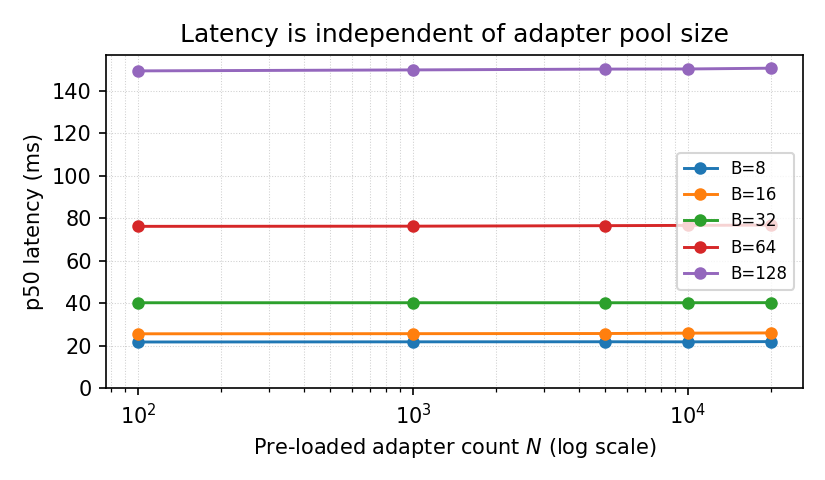
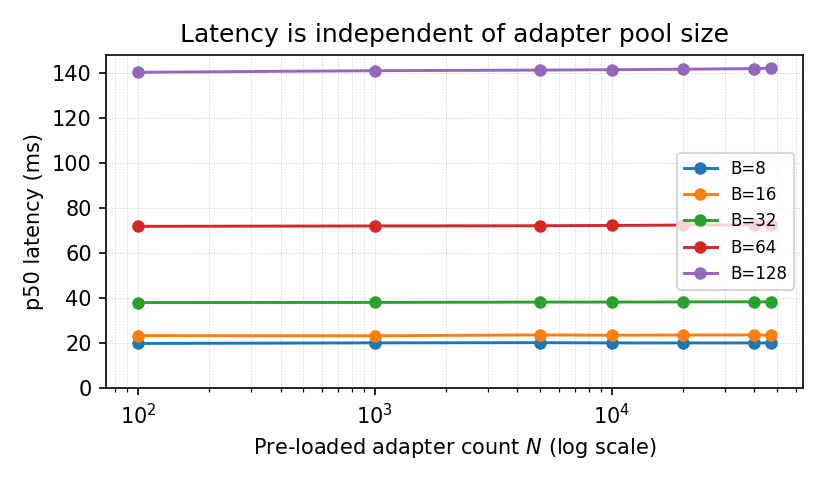
updated text with new benchmarks

diff --git a/paper/main.tex b/paper/main.tex
@@ -79,10 +79,10 @@ then fusing them additively---enabling heterogeneous adapters and per-tenant
 logistic-regression heads to be batched via \texttt{torch.bmm} with
 pre-allocated GPU buffers, requiring no custom CUDA kernels.
 On a single NVIDIA A100-80GB GPU with \texttt{BAAI/bge-m3} as the base
-model, \sysname{} serves \textbf{20{,}000 pre-loaded LoRA adapters at 800
-samples/sec} with 42~ms p99 latency at batch size 32, and scales from 100 to
-20{,}000 adapters with statistically unchanged latency---empirically confirming
-$\mathcal{O}(1)$ scaling in adapter count.
+model, \sysname{} serves \textbf{47{,}000 pre-loaded LoRA adapters at 810
+samples/sec} with 41~ms p99 latency at batch size 32, and p50 latency stays
+statistically unchanged from 100 to 47{,}000 adapters---the full per-GPU
+capacity---empirically confirming $\mathcal{O}(1)$ scaling in adapter count.
 Against the HuggingFace PEFT swap baseline on the same hardware,
 \sysname{} delivers a \textbf{37--528$\times$ throughput improvement} under
 adapter-grouped (batch-by-adapter) batching, growing with both batch size
@@ -134,6 +134,10 @@ many distinct adapters it references. Per-tenant task heads
 (variable-size classifiers, regressors, retrieval re-rankers) are
 batched analogously via zero-padded BMM.
 
+Our single-GPU evaluation characterizes the serving primitive; a
+minimal reference deployment for stateless scale-out is in
+Appendix~\ref{sec:deployment}.
+
 \paragraph{Contributions.}
 \begin{itemize}
   \item We identify and formalize the \emph{encoder multi-tenant LoRA serving}
@@ -145,10 +149,10 @@ batched analogously via zero-padded BMM.
   without custom CUDA kernels, in standard PyTorch (\S\ref{sec:system}).
 
   \item We empirically demonstrate that adapter count does not drive
-  inference latency: scaling from 100 to 20{,}000 adapters at batch
+  inference latency: scaling from 100 to 47{,}000 adapters at batch
   size 32 on a single A100-80GB leaves p50 latency flat
-  (40.2$\to$40.3~ms) and p99 bounded ($\le$45.7~ms), with serving
-  throughput saturating at $\approx$800~samples/sec by batch size 64
+  (38.0$\to$38.3~ms) and p99 bounded ($\le$50.8~ms), with serving
+  throughput saturating at $\approx$840~samples/sec by batch size 64
   (\S\ref{sec:experiments}).
 
   \item We benchmark \sysname{} against a HuggingFace PEFT swap baseline
@@ -161,7 +165,9 @@ batched analogously via zero-padded BMM.
 
   \item By staying in standard PyTorch, \sysname{} removes the custom-CUDA
   build step that is the dominant deployment friction on managed GPU
-  platforms (Databricks, SageMaker, Modal).
+  platforms (Databricks, SageMaker, Modal), letting the same serving
+  primitive drop into a standard cluster scale-out
+  (Appendix~\ref{sec:deployment}).
 \end{itemize}
 
 % =============================================================================
@@ -396,8 +402,8 @@ it depends only on batch size $\mathcal{B}$, sequence length $S$, and model dept
 The adapter count affects only CPU-side batch assembly time, which is
 $\mathcal{O}(\mathcal{B} \cdot L \cdot |\mathcal{M}|)$ where $|\mathcal{M}|$ is the
 number of target modules.
-Empirically, increasing $N$ from 100 to 20{,}000 at batch size 32 leaves p50
-latency effectively unchanged (40.2 vs.\ 40.3~ms;
+Empirically, increasing $N$ from 100 to 47{,}000 at batch size 32 leaves p50
+latency effectively unchanged (38.0 vs.\ 38.3~ms;
 \S\ref{sec:results_latency}).
 
 % =============================================================================
@@ -434,7 +440,7 @@ using 50 warm-up iterations followed by 200 measured iterations.
 GPU-side work is timed with reusable \texttt{torch.cuda.Event} pairs and
 synchronized once per iteration; CPU-side assembly is timed with
 \texttt{time.perf\_counter} between identical synchronization points.
-We sweep adapter count $N \in \{100,\,1{,}000,\,5{,}000,\,10{,}000,\,20{,}000\}$,
+We sweep adapter count $N \in \{100,\,1{,}000,\,5{,}000,\,10{,}000,\,20{,}000,\,40{,}000,\,47{,}000\}$,
 batch size $\mathcal{B} \in \{8,\,16,\,32,\,64,\,128\}$, and rank
 $r \in \{4,\,8,\,16,\,32\}$.
 Each configuration samples mixed-tenant batches uniformly at random from the
@@ -472,6 +478,8 @@ operating point.
 \begin{table}[t]
 \centering
 \small
+\setlength{\tabcolsep}{4.5pt}
+\renewcommand{\arraystretch}{0.92}
 \caption{Serving latency, throughput, and peak GPU memory
 (\texttt{BAAI/bge-m3}, A100-SXM4-80GB; full setup in \S\ref{sec:setup}).
 Adapters are pre-loaded; latency includes batch assembly and the
@@ -483,62 +491,59 @@ batch size, and the bottom LoRA rank.}
 $N$ & $\mathcal{B}$ & $r$ & p50 & p90 & p99 & QPS & GPU \\
     &     &     & (ms)& (ms)& (ms)& (s/s) & (GB) \\
 \midrule
-    100 & 32 & 8  & 40.2 & 40.8 & 44.1 & 793 & 1.43 \\
-  1{,}000 & 32 & 8  & 40.2 & 40.7 & 45.7 & 779 & 2.87 \\
-  5{,}000 & 32 & 8  & 40.2 & 40.5 & 40.9 & 783 & 9.24 \\
- 10{,}000 & 32 & 8  & 40.2 & 40.5 & 41.3 & 781 & 17.21 \\
- 20{,}000 & 32 & 8  & 40.3 & 40.5 & 42.5 & 779 & 33.15 \\
+    100 & 32 & 8  & 38.0 & 38.2 & 42.4 & 816 & 1.43 \\
+  1{,}000 & 32 & 8  & 38.0 & 38.2 & 39.0 & 827 & 2.87 \\
+  5{,}000 & 32 & 8  & 38.2 & 38.4 & 50.8 & 794 & 9.24 \\
+ 10{,}000 & 32 & 8  & 38.2 & 38.4 & 44.9 & 806 & 17.21 \\
+ 20{,}000 & 32 & 8  & 38.3 & 38.4 & 38.8 & 836 & 33.15 \\
+ 40{,}000 & 32 & 8  & 38.3 & 38.5 & 42.4 & 783 & 65.03 \\
+ 47{,}000 & 32 & 8  & 38.3 & 38.5 & 40.8 & 807 & 76.18 \\
 \midrule
-  1{,}000 & 8  & 8  & 21.8 & 22.4 & 23.1 & 364 & 2.77 \\
-  1{,}000 & 16 & 8  & 25.7 & 26.2 & 31.3 & 617 & 2.80 \\
-  1{,}000 & 64 & 8  & 76.3 & 76.9 & 192.5 & 801 & 3.00 \\
-  1{,}000 & 128& 8  & 149.9 & 157.8 & 271.8 & 797 & 3.25 \\
+  1{,}000 & 8  & 8  & 20.1 & 20.3 & 20.5 & 399 & 2.77 \\
+  1{,}000 & 16 & 8  & 23.2 & 23.3 & 23.6 & 688 & 2.80 \\
+  1{,}000 & 64 & 8  & 72.0 & 72.4 & 196.5 & 844 & 3.00 \\
+  1{,}000 & 128& 8  & 140.8 & 141.9 & 264.1 & 843 & 3.25 \\
 \midrule
-  1{,}000 & 32 & 4  & 39.9 & 40.3 & 51.1 & 773 & 2.08 \\
-  1{,}000 & 32 & 16 & 39.6 & 39.9 & 41.7 & 806 & 4.44 \\
-  1{,}000 & 32 & 32 & 39.7 & 40.0 & 40.3 & 805 & 7.75 \\
+  1{,}000 & 32 & 4  & 39.2 & 39.4 & 41.1 & 789 & 2.08 \\
+  1{,}000 & 32 & 16 & 39.0 & 39.1 & 40.5 & 820 & 4.44 \\
+  1{,}000 & 32 & 32 & 39.1 & 39.1 & 39.2 & 819 & 7.75 \\
 \bottomrule
 \end{tabular}
 \end{table}
 
 \paragraph{Finding 1: Adapter count does not drive latency.}
-Scaling from 100 to 20{,}000 adapters at $\mathcal{B}{=}32$, $r{=}8$ leaves p50 latency
-statistically unchanged (40.2 vs.\ 40.3~ms, a 0.1\% difference)---a
-200$\times$ increase in the number of served customers at zero latency cost.
+Scaling from 100 to 47{,}000 adapters at $\mathcal{B}{=}32$, $r{=}8$ leaves p50 latency
+statistically unchanged (38.0 vs.\ 38.3~ms, 0.8\%)---a 470$\times$ increase in
+served customers at zero latency cost, sustained to the per-GPU memory ceiling
+(Finding~4).
 The GPU-side forward pass time is constant at $\approx$25.8~ms across the
 entire sweep, and the only $N$-dependent component is the CPU-side batch
-assembler whose share remains below 38\% of total latency.
-This empirically validates the $\mathcal{O}(1)$-in-$N$ scaling property of
-\S\ref{sec:complexity}.
+assembler, whose share stays below 38\% of total latency---empirically
+validating the $\mathcal{O}(1)$-in-$N$ scaling of \S\ref{sec:complexity}.
 
 \paragraph{Finding 2: Batch size drives throughput up to saturation at $\mathcal{B}{=}64$.}
-Throughput scales from 364~samples/sec at $\mathcal{B}{=}8$ to 801~samples/sec at
-$\mathcal{B}{=}64$, then plateaus---$\mathcal{B}{=}128$ delivers no further gain (797~samples/sec).
+Throughput scales from 399~samples/sec at $\mathcal{B}{=}8$ to 844~samples/sec at
+$\mathcal{B}{=}64$, then plateaus---$\mathcal{B}{=}128$ delivers no further gain (843~samples/sec).
 The shared-base encoder forward becomes GPU-bound at $\mathcal{B}{=}64$, after which
-larger batches only widen tail latency without lifting throughput.
-For deployments under strict p99 SLAs, $\mathcal{B} \in \{32, 64\}$ is the recommended
-operating range.
+larger batches only widen tail latency without lifting throughput, making
+$\mathcal{B} \in \{32, 64\}$ the recommended range under strict p99 SLAs.
 
 \paragraph{Finding 3: LoRA rank is a free latency knob in the small-rank regime.}
 At $N{=}1{,}000$, $\mathcal{B}{=}32$, p50 latency is flat across $r \in \{4, 8, 16, 32\}$
-(39.9, 39.7, 39.6, 39.7~ms respectively), with no rank trend in the tail either
-(p99 = 51.1, 47.1, 41.7, 40.3~ms). This is the expected behaviour while
-$r \ll H$: the low-rank path contributes only $2r/H$ of a base projection's
-arithmetic---at most 6\% at $H{=}1024$, $r{=}32$, and $\approx$1\% of the full
-encoder forward---so the per-batch GPU forward stays at $\approx$26~ms across all
-four ranks. The knob ceases to be free once $2r$ approaches $H$.
-Within this regime, practitioners can select rank purely on a quality--memory
-basis: doubling rank leaves forward latency unchanged and only doubles the
-per-adapter footprint. That footprint is not entirely without consequence---since
-\sysname{} holds all adapters GPU-resident, doubling rank halves the per-GPU
-tenant ceiling ($\approx$47{,}000 adapters at $r{=}8$ versus $\approx$12{,}000 at
-$r{=}32$; Finding~4)---but it does not affect serving latency below that ceiling.
+(39.2, 39.0, 39.0, 39.1~ms respectively), with no rank trend in the tail either
+(p99 = 41.1, 40.8, 40.5, 39.2~ms). While $r \ll H$, the low-rank path adds only
+$2r/H$ of a base projection's arithmetic ($\approx$1\% of the full encoder
+forward), so the per-batch GPU forward stays at $\approx$26~ms across all four
+ranks; the knob ceases to be free once $2r$ approaches $H$.
+Within this regime, rank is a pure quality--memory tradeoff: doubling it leaves
+forward latency unchanged but doubles the per-adapter footprint, halving the
+per-GPU tenant ceiling ($\approx$47{,}000 adapters at $r{=}8$ versus
+$\approx$12{,}000 at $r{=}32$; Finding~4).
 
 \paragraph{Finding 4: Predictable memory footprint and per-GPU ceiling.}
 Per-adapter cache memory measures 1.573~MB at $r{=}8$ in fp16 (24 layers,
 hidden size 1024, two target modules), matching the analytic formula
-$2 \cdot M \cdot L \cdot d \cdot r \cdot \text{dtype}$ (with $M{=}2$
-target modules) within 5\%.
+$2 \cdot M \cdot L \cdot d \cdot r \cdot \text{dtype}$ within 5\%.
 On an 80~GB A100, after reserving $\approx$2~GB for base-model parameters and
 activation buffers, this yields a clean empirical ceiling of
 $\approx$\textbf{47{,}000} adapters at $r{=}8$ (the largest pool we verified,
@@ -549,24 +554,22 @@ Our $N{=}50{,}000$ runs OOM'd cleanly at all batch sizes, confirming the limit.
 \paragraph{Finding 5: Batch assembly is the residual bottleneck and drives tail latency.}
 \label{sec:results_assembly}
 The CPU-side batch-assembly path (gather per-sample LoRA slices into
-per-layer lists, pad the LR head, host-to-device copy) consumes 17\% of iteration time at $\mathcal{B}{=}8$
-and \textbf{43\%} at $\mathcal{B}{=}128$, scaling linearly with $\mathcal{B}$
+per-layer lists, pad the LR head, host-to-device copy) consumes 15.5\% of iteration time at $\mathcal{B}{=}8$
+and \textbf{40\%} at $\mathcal{B}{=}128$, scaling linearly with $\mathcal{B}$
 while the encoder forward saturates at $\mathcal{B}{=}64$.
-This same path drives tail latency: the p99/p50 ratio is $1.14\times$ at
-$\mathcal{B}{=}32$ but reaches $2.52\times$ at $\mathcal{B}{=}64$, with
+This same path drives tail latency: the p99/p50 ratio is $1.03\times$ at
+$\mathcal{B}{=}32$ but reaches $2.73\times$ at $\mathcal{B}{=}64$, with
 profiling localizing the spike to occasional Python/GC stalls during
 assembly; the GPU forward exhibits no such variance.
-Double-buffered host-to-device transfer and a GPU-resident
-\texttt{index\_select} gather would amortize this cost; we leave both to
-future work.
+Double-buffered H2D transfer and a GPU-resident \texttt{index\_select} gather
+would amortize this; both are future work.
 
 \paragraph{Finding 6: Custom LoRA kernels offer only single-digit upside on
 encoders.}
 \label{sec:results_custom_kernels}
 Could custom kernels (Punica's SGMV \cite{chen2024punica}, S-LoRA's MBGMV
-\cite{sheng2024slora}) replacing our \texttt{torch.bmm} shrink/expand help? Three
-measurements at $\mathcal{B}{=}32$, $N{=}1{,}000$, $r{=}8$ on an A100-SXM4-80GB
-bound the upside to single digits. The \emph{analytic FLOP ratio} per layer is
+\cite{sheng2024slora}) replacing our \texttt{torch.bmm} help? Three measurements
+at $\mathcal{B}{=}32$, $N{=}1{,}000$, $r{=}8$ bound the upside to single digits. The \emph{analytic FLOP ratio} per layer is
 $3d/r{=}384$, so even an instantaneous LoRA kernel saves at most $0.26\%$ of
 FLOPs. A \emph{profiler trace} (self CUDA time, isolating the LoRA shrink/expand
 via an apply-LoRA on/off difference) attributes \textbf{5.0\%} of forward GPU time
@@ -574,10 +577,9 @@ to the LoRA \texttt{bmm} versus \textbf{50.2\%} for the base projections. A
 \emph{no-LoRA ablation} skipping the entire LoRA path (gather, shrink/expand,
 merge) saves \textbf{2.2~ms of 26.0~ms} (\textbf{8.3\%}); the gather and merge,
 not the \texttt{bmm}, dominate the gap above the $5.0\%$ kernel cost. Custom fused
-kernels target only this path, so $8.3\%$ is the hard ceiling here. The
-decoder-LoRA literature reports larger, multiplicative gains because memory-bound
-per-token decode gives LoRA far higher relative weight; the compute-bound encoder
-forward at $d{=}1024$ does not benefit comparably.
+kernels target only this path, so $8.3\%$ is the hard ceiling here---unlike
+memory-bound decoder decode, where LoRA carries far higher relative weight and
+custom kernels yield the multiplicative gains reported in that literature.
 
 \begin{figure}[t]
   \centering
@@ -585,7 +587,7 @@ forward at $d{=}1024$ does not benefit comparably.
   \caption{p50 latency as a function of pre-loaded adapter count at five
   batch sizes (rank = 8, sequence length = 128, A100-80GB,
   \texttt{BAAI/bge-m3}).
-  Curves are flat across $N \in [100, 20{,}000]$, empirically confirming the
+  Curves are flat across $N \in [100, 47{,}000]$, empirically confirming the
   $\mathcal{O}(1)$-in-$N$ scaling property of \sysname.}
   \label{fig:latency_adapters}
 \end{figure}
@@ -613,8 +615,8 @@ configurations, all attaching $N$ adapters via \texttt{add\_adapter}.
 \cite{chen2024punica}). \emph{Homogeneous}, PEFT's friendliest case, uses
 single-tenant batches---one \texttt{set\_adapter} and one batched forward each.
 \emph{Base} is the bare model with no adapters (702/1{,}810/2{,}067~samples/sec
-at $\mathcal{B}{=}8/32/128$, $N$-independent). We also report PEFT's deployment
-cost---the time to register $N$ adapters, which we replace with a constant-time
+at $\mathcal{B}{=}8/32/128$, $N$-independent). We also report PEFT's
+$N$-adapter registration cost, which we replace with a constant-time
 \texttt{AdapterStore} insert.
 
 \begin{table}[h]
@@ -656,15 +658,15 @@ PEFT homog. ($\mathcal{B}{=}128$)  & 125 & 1{,}019 & 724 & 176 \\
 \end{table}
 
 \paragraph{Finding 7: PEFT's per-swap cost is $\mathcal{O}(N)$ in the tenant pool.}
-\emph{Homogeneous} batching is PEFT's best case---single-tenant batches, one
-\texttt{set\_adapter} and one forward each---and is competitive at $N{=}100$, even
+\emph{Homogeneous} batching---PEFT's best case (single-tenant batches, one
+\texttt{set\_adapter} and forward each)---is competitive at $N{=}100$, even
 edging \sysname{} at $\mathcal{B}{=}128$ (1{,}019 vs.\ 828~samples/sec). Yet
-holding the batching fixed and growing the pool to 1{,}000 collapses its
-throughput 6--9$\times$ (390$\to$48~samples/sec at $\mathcal{B}{=}32$), leaving
-\sysname{} 5--31$\times$ faster; since only the adapter \emph{count} changed, this
-isolates \texttt{set\_adapter} as $\mathcal{O}(N)$. \emph{Grouped} batching fares
-worse still---mixed batches rarely share an adapter, so \sysname{} leads by
-54--528$\times$ at $\mathcal{B}{=}32$.
+holding batching fixed and growing the pool to 1{,}000 collapses throughput
+6--9$\times$ (390$\to$48~samples/sec at $\mathcal{B}{=}32$), leaving \sysname{}
+5--31$\times$ faster; since only the adapter \emph{count} changed, this isolates
+\texttt{set\_adapter} as $\mathcal{O}(N)$. \emph{Grouped} fares worse---mixed
+batches rarely share an adapter, so \sysname{} leads by 54--528$\times$ at
+$\mathcal{B}{=}32$.
 
 % TODO (Task #4): §4.5 Multi-Model and Multi-Hardware Generalization.
 % Run the latency/throughput sweep on at least 3 base encoders × 3 GPU classes:
@@ -728,8 +730,8 @@ custom CUDA compilation.
 HuggingFace TEI \cite{huggingface2023tei} serves encoder/embedding models at
 high throughput via Flash Attention and cuBLASLt but has no adapter support.
 PetS \cite{zhou2022pets}, the closest prior system, targets multi-adapter
-encoder serving for Adapter \cite{PLACEHOLDER_houlsby2019}, BitFit
-\cite{PLACEHOLDER_bitfit2022}, and MaskBERT \cite{PLACEHOLDER_maskbert2020} on
+encoder serving for Adapter \cite{houlsby2019adapter}, BitFit
+\cite{benzaken2022bitfit}, and MaskBERT \cite{zhao2020masking} on
 BERT/DistilBERT, but predates LoRA and handles neither low-rank decompositions
 nor per-tenant classification heads.
 \sysname{} is a LoRA-native framework that batches arbitrary external
@@ -741,12 +743,11 @@ modifying the base model.
 \label{sec:conclusion}
 
 We presented \sysname, a serving system for multi-tenant LoRA on encoder
-models. Late-fusion batched matrix multiplication separates the frozen
-base-model path from per-tenant LoRA deltas and fuses them additively,
-enabling mixed-tenant batches without weight merging, custom CUDA kernels, or
-KV-cache machinery---serving 20{,}000 adapters on an A100-80GB
-(\texttt{BAAI/bge-m3}) at constant latency, a $37$--$528\times$ gain over PEFT
-swapping, in standard PyTorch.
+models. Late-fusion batched matrix multiplication fuses the frozen base path
+and per-tenant LoRA deltas additively, enabling mixed-tenant batches without
+weight merging, custom CUDA kernels, or KV-cache machinery. In standard
+PyTorch it serves 47{,}000 adapters on one A100-80GB at constant latency---a
+$37$--$528\times$ gain over PEFT swapping.
 
 % =============================================================================
 \section*{Limitations}
@@ -787,15 +788,6 @@ to be evaluated.
 Current benchmarks use a single random seed, so statistical significance is
 not yet established.
 % TODO (Task #6): multi-seed CI runs before camera-ready.
-
-\paragraph{Synthetic-only adapter validation.}
-Latency and throughput numbers are obtained with randomly initialized adapters
-($B = 0$, so the LoRA delta is zero).
-Real adapters with non-zero deltas will have marginally higher GPU compute
-time; end-to-end correctness against PEFT-merged references is verified
-numerically (\S\ref{sec:setup}) but not yet across the full
-serving pipeline.
-% TODO (Tasks #3 and #9): complete before camera-ready.
 
 % =============================================================================
 \section*{Ethics Statement}
